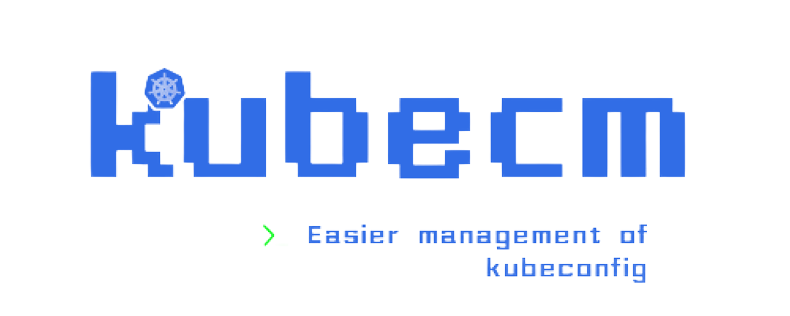
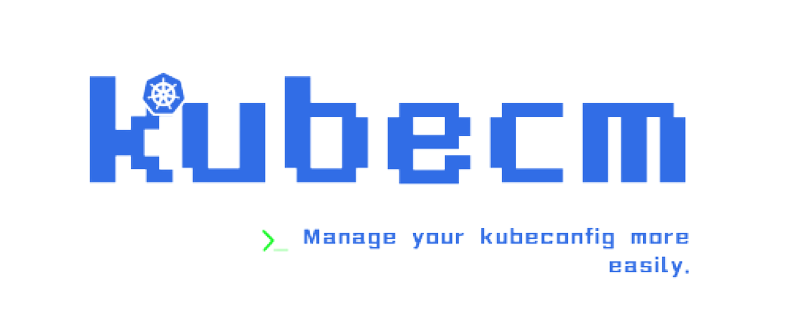
docs: update docs web site style (#533)
* docs: update docs web site style

diff --git a/docs/index.html b/docs/index.html
@@ -3,20 +3,14 @@
 
 <head>
     <meta charset="UTF-8">
-    <title>KubeCM - KubeConfig Manager.</title>
+    <title>KubeCM - Manage your kubeconfig more easily</title>
     <meta http-equiv="X-UA-Compatible" content="IE=edge,chrome=1" />
     <meta name="description" content="Description">
     <meta name="viewport"
         content="width=device-width, user-scalable=no, initial-scale=1.0, maximum-scale=1.0, minimum-scale=1.0">
     <link rel="icon" href="favicon.ico">
-    <link rel="stylesheet" type="text/css" href="//cdn.jsdelivr.net/npm/docsify/themes/vue.css">
+    <link rel="stylesheet" href="//cdn.jsdelivr.net/npm/docsify/lib/themes/buble.css">
     <link rel="stylesheet" href="https://unpkg.com/docsify-toc@1.0.0/dist/toc.css">
-    <link
-            rel="stylesheet"
-            href="//cdn.jsdelivr.net/npm/docsify-darklight-theme@latest/dist/style.min.css"
-            title="docsify-darklight-theme"
-            type="text/css"
-    />
     <!-- Global site tag (gtag.js) - Google Analytics -->
     <script async src="https://www.googletagmanager.com/gtag/js?id=G-FV886PTDEN"></script>
     <script>
@@ -41,6 +35,7 @@
             auto2top: true,
             loadNavbar: true,
             executeScript: true,
+            notFoundPage: true,
             routerMode: 'history',
             homepage: '/en-us/README.md',
             search: {
@@ -114,7 +109,7 @@
 
     </script>
     <script src="//cdn.jsdelivr.net/npm/docsify/lib/plugins/ga.min.js"></script>
-    <script src="//cdn.jsdelivr.net/npm/docsify/lib/docsify.min.js"></script>
+    <script src="//cdn.jsdelivr.net/npm/docsify@4"></script>
     <script src="//unpkg.com/prismjs/components/prism-yaml.min.js"></script>
     <script src="../static/search.js"></script>
     <script src="../static/zoom-image.js"></script>

diff --git a/docs/_coverpage.md b/docs/_coverpage.md
@@ -1,6 +1,6 @@
-# Kubecm
-
-> Manage your kubeconfig more easily.
+<p align="center">
+    <img src="../../static/kubecm.png" title="KubeCM" alt="Kubecm" height="200" />
+</p>
 
 
 [GitHub](https://github.com/sunny0826/kubecm)
